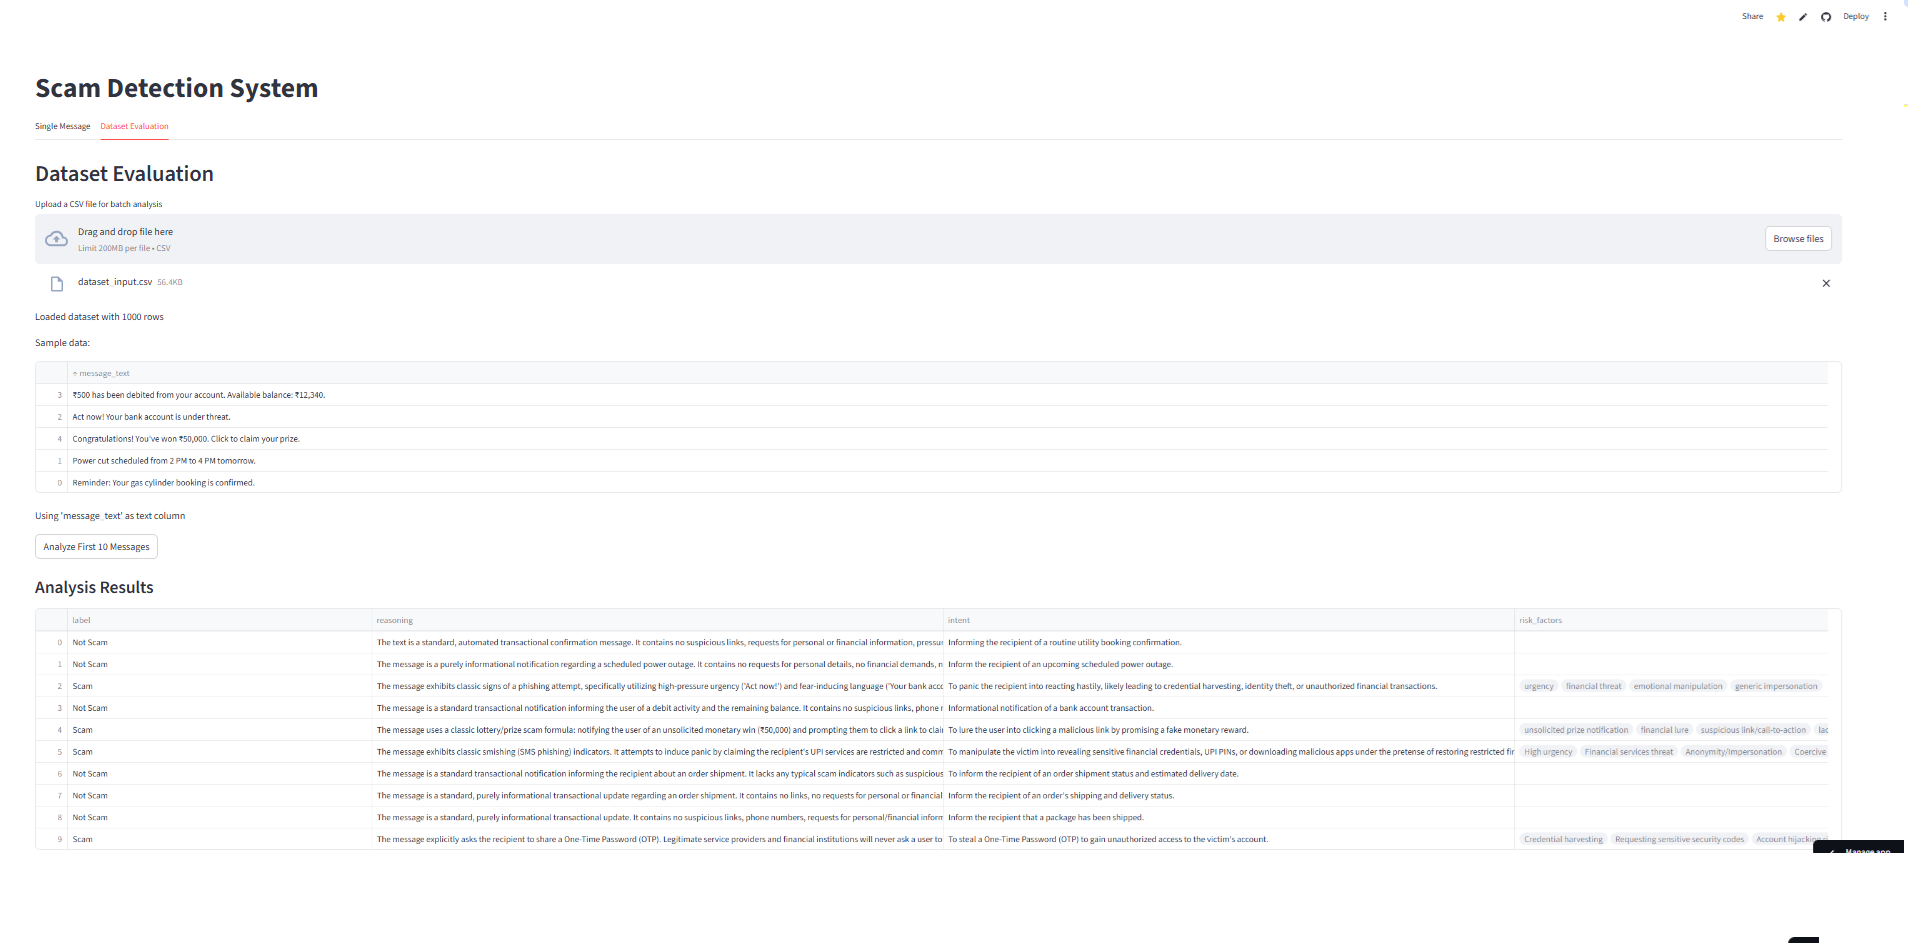
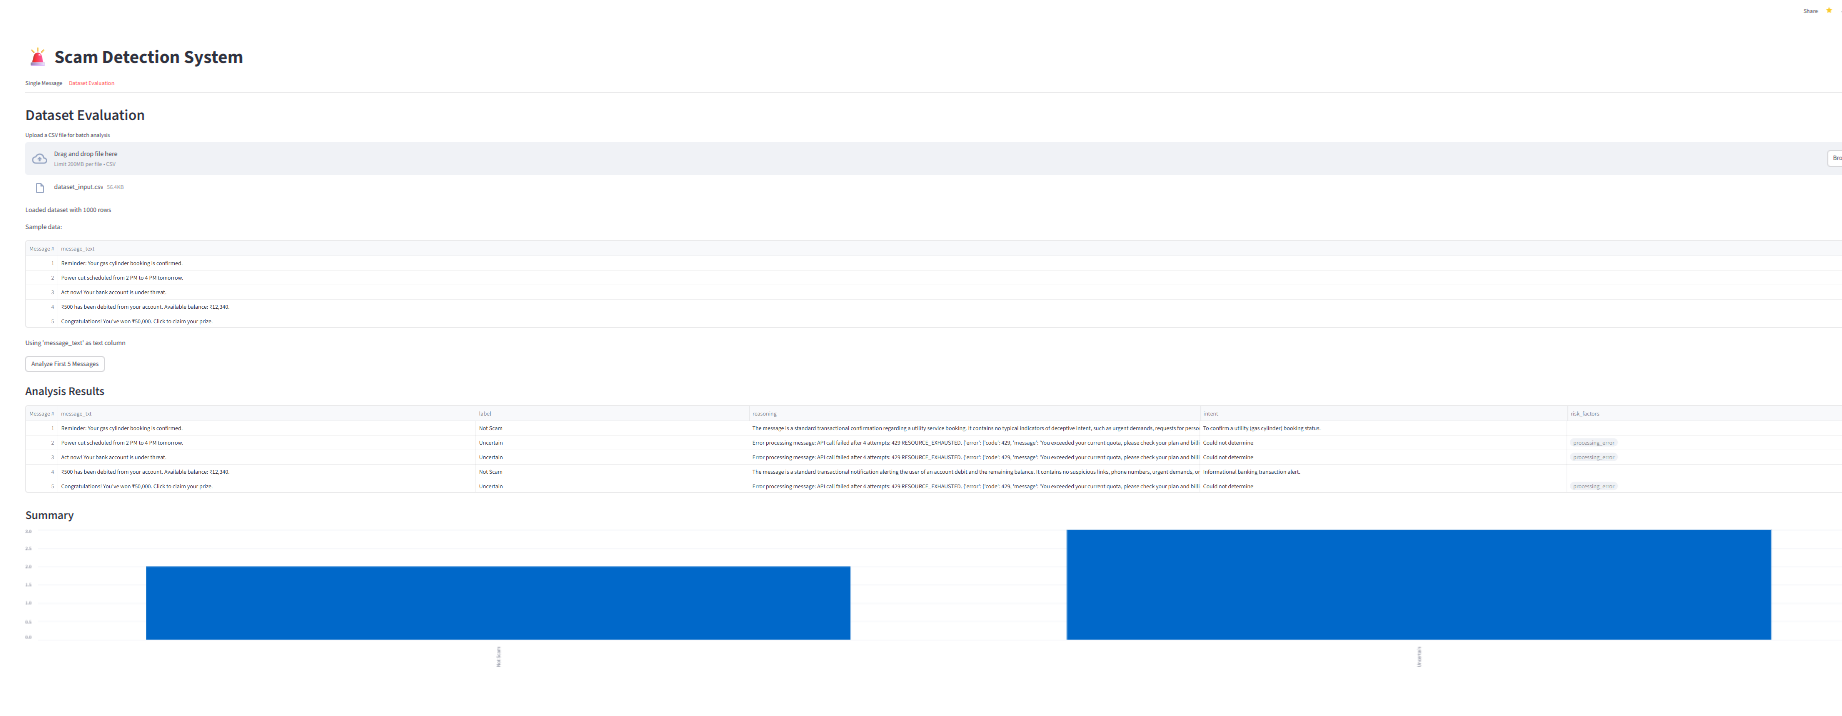
Update app.py: show message_txt as first column in analysis results and readme.md file.

diff --git a/streamlit/app.py b/streamlit/app.py
@@ -32,7 +32,7 @@ with tab1:
             with st.spinner("Analyzing message..."):
                 try:
                     result = detector.detect(user_input)
-                    
+
                     # Display results
                     col1, col2 = st.columns(2)
                     
@@ -106,6 +106,10 @@ with tab2:
                         # Create results dataframe
                         results_df = pd.DataFrame(results)
                         results_df["message_txt"] = messages
+                        
+                        # ✅ Reorder columns so message_txt is first
+                        cols = ["message_txt"] + [col for col in results_df.columns if col != "message_txt"]
+                        results_df = results_df[cols]
                         
                         # Reset index to start at 1 and rename
                         results_df.index = results_df.index + 1
